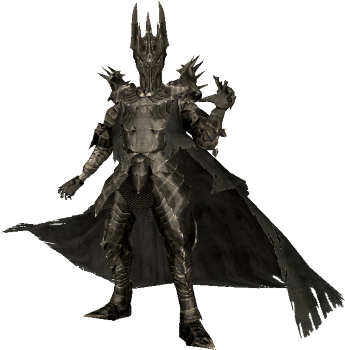
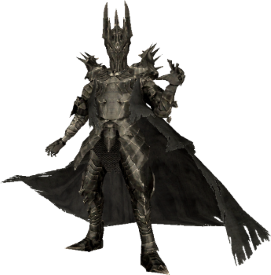
Resized the character pngs again. Background image changes when a new enemy is selected. Commented javascript.

diff --git a/assets/javascript/game.js b/assets/javascript/game.js
@@ -1,11 +1,13 @@
+// Each of the following objects represents a character that the player can 
+// play as or fight against.
 var frodo = {
     name: "Frodo Baggins",
     id: "frodobaggins",
     image: "assets/images/frodobaggins.png",
-    health: 100,
-    currentPower: 5,
-    attackPower: 5,
-    counterPower: 5
+    health: 120,
+    currentPower: 6,
+    attackPower: 6,
+    counterPower: 8
 };
 
 var gandalf = {
@@ -13,8 +15,8 @@ var gandalf = {
     id: "gandalf",
     image: "assets/images/gandalf.png",
     health: 180,
-    currentPower: 8,
-    attackPower: 8,
+    currentPower: 7,
+    attackPower: 7,
     counterPower: 25
 }
 
@@ -23,8 +25,8 @@ var aragorn = {
     id: "aragorn",
     image: "assets/images/aragorn.png",
     health: 150,
-    currentPower: 6,
-    attackPower: 6,
+    currentPower: 7,
+    attackPower: 7,
     counterPower: 20
 }
 
@@ -32,10 +34,10 @@ var nazgul = {
     name: "Witch-king of Angmar",
     id: "nazgul",
     image: "assets/images/nazgul.png",
-    health: 100,
-    currentPower: 5,
-    attackPower: 5,
-    counterPower: 5
+    health: 120,
+    currentPower: 6,
+    attackPower: 6,
+    counterPower: 8
 }
 
 var saruman = {
@@ -43,8 +45,8 @@ var saruman = {
     id: "saruman",
     image: "assets/images/saruman.png",
     health: 150,
-    currentPower: 6,
-    attackPower: 6,
+    currentPower: 7,
+    attackPower: 7,
     counterPower: 20
 }
 
@@ -53,17 +55,21 @@ var sauron = {
     id: "sauron",
     image: "assets/images/sauron.png",
     health: 180,
-    currentPower: 8,
-    attackPower: 8,
+    currentPower: 7,
+    attackPower: 7,
     counterPower: 25
 }
 
-// var heroes = ["frodobaggins", "samwisegamgee", "gandalf", "aragorn", "legolas"];
+// The two groupings of playable characters are heroes and villains.
 var heroes = [frodo, aragorn, gandalf];
-// var villains = ["nazgul", "saruman", "sauron", "gollum", "shelob"];
 var villains = [nazgul, saruman, sauron];
-var playerTeam = "";
 
+// Store the backgrounds in an array so we can randomly pick one with each 
+// new enemy fight.
+var backgrounds = ["hobbiton.jpeg", "minesofmoria.jpg", "ministirith.jpg", "mistymountains.jpg", "mordor.jpg", "rohan.jpg", "theblackgate.jpg", "theshire.jpg"];
+
+// Initialize other useful global variables.
+var playerTeam = "";
 var wins = 0;
 var losses = 0;
 var enemyChosen = false;
@@ -85,6 +91,7 @@ var friendsHolder = $("#friends");
 var enemiesHolder = $("#enemies");
 var messageLog = $("<div>");
 var attackButton = $("<button>");
+var bodyHolder = $("body");
 
 // At the start of the game, players can pick either the heroes or the villains.
 // When they make a choice, the next screen displays their playable characters.
@@ -106,7 +113,6 @@ $(".start-button").on("click", function () {
 // After the player makes a choice about which side they are on, their playable
 // characters are displayed.
 function showPlayableCharacters() {
-
     for (var i = 0; i < friendlyCharacters.length; i++) {
         var image = $("<img>");
         image.attr("src", friendlyCharacters[i].image);
@@ -120,7 +126,6 @@ function showPlayableCharacters() {
 // Once a player has chosen a character by clicking on the image, append the image
 // to the game board and display their enemies.
 function chooseCharacter(theCharacter) {
-
     // Grab the chosen character and set it to playerCharacter variable.
     for (var i = 0; i < friendlyCharacters.length; i++) {
         if (theCharacter === friendlyCharacters[i].id) {
@@ -140,7 +145,6 @@ function chooseCharacter(theCharacter) {
 
 // Display the enemies that the player has to choose from.
 function displayEnemies() {
-
     enemiesHolder.empty();
 
     for (var i = 0; i < enemyCharacters.length; i++) {
@@ -171,11 +175,16 @@ function chooseEnemy(theEnemy) {
             }
         }
 
+        // Select a new background image.
+        var newBackground = backgrounds[Math.floor(Math.random() * backgrounds.length)]
+        $("body").css({"background": "url('assets/images/" + newBackground + "') no-repeat center center fixed", "background-size": "cover"});
+ 
         displayEnemies();
         headerHolder.html("<h1>You are fighting " + currentEnemy.name + "!</h1>");
     }
 }
 
+// Display the Attack button, Message Log box, and reset button.
 function displayOptions() {
     attackButton.attr("id", "#attack");
     attackButton.attr("value", "attack");
@@ -185,7 +194,7 @@ function displayOptions() {
     playerOptionsHolder.append(attackButton);
 
     messageLog.attr("id", "#message-log");
-    messageLog.attr("style", "background-color: wheat; width: 20em; height: 15em; margin: 1em 0; overflow: auto; text-align: center");
+    messageLog.attr("style", "background-color: wheat; width: 20em; height: 8em; margin: 1em 0; overflow: auto; text-align: center");
     playerOptionsHolder.append(messageLog);
 
     var resetButton = $("<button>");
@@ -198,31 +207,41 @@ function displayOptions() {
     playerOptionsHolder.append(resetButton);
 }
 
+// When the attack button is clicked, attack the enemy.
 function attackEnemy() {
+    // First check that an enemy is actually selected.
     if (!enemyChosen) {
         messageLog.prepend("<p>There is no enemy to attack yet.</p>");
     } else {
-        currentEnemy.health -= playerCharacter.currentPower;
-        if (currentEnemy.health <= 0) {
+        currentEnemy.health -= playerCharacter.currentPower; // Reduce the enemy health.
+        if (currentEnemy.health <= 0) { // If the enemy has died...
+            // Remove the enemy from the enemyCharacters array.
             enemyCharacters.splice(enemyCharacters.indexOf(currentEnemy), 1);
             enemyChosen = false;
-            enemyCharacterHolder.empty();
             headerHolder.html("<h1>You killed " + currentEnemy.name + "!</h1>");
             displayEnemies();
-        } else {
-            playerCharacter.health -= currentEnemy.counterPower;
-            if (playerCharacter.health <= 0) {
+            
+            // If there are no more enemies to fight...
+            if (enemyCharacters === undefined || enemyCharacters.length <= 0) {
+                headerHolder.html("<h1>You won the game! Click Reset Game to play again.</h1>");
+                attackButton.attr("disabled", true);
+                attackButton.attr("style", "background-color: grey; margin: 0;");
+            }
+        } else { // If the enemy has not died yet...
+            playerCharacter.health -= currentEnemy.counterPower; // Reduce the player health.
+            if (playerCharacter.health <= 0) { // If the player has died...
                 headerHolder.html("<h1>You lost the game! Click Reset Game to try again.</h1>");
                 playerCharacterHolder.empty();
                 attackButton.attr("disabled", true);
                 attackButton.attr("style", "background-color: grey; margin: 0;");
             }
         }
+        // Add details to the message log.
         messageLog.prepend("<p>You attacked " + currentEnemy.name + " for " + playerCharacter.currentPower + " damage!</p>" +
         "<p>" + currentEnemy.name + " attacked you for " + currentEnemy.counterPower + " damage!</p>" +
         "<p>" + currentEnemy.name + "'s health is at " + currentEnemy.health + ".</p>" +
         "<p>Your health is at " + playerCharacter.health + ".</p><br>");
         
-        playerCharacter.currentPower += playerCharacter.attackPower;
+        playerCharacter.currentPower += playerCharacter.attackPower; // Add to the player's attack power.
     }
 }

diff --git a/assets/css/style.css b/assets/css/style.css
@@ -31,15 +31,11 @@ h1 {
     text-align: center;
 }
 
-/* #game-board {
-    text-align: center;
-    margin: 0 auto;
-} */
-
 #game-board {
     display: flex;
     flex-direction: row;
     justify-content: space-around;
+    margin-bottom: 2em;
 }
 
 #player-character {
@@ -55,6 +51,11 @@ h1 {
 #enemy-character {
     display: flex;
     flex-direction: column;
+}
+
+#friends {
+    text-align: center;
+    margin: 0 auto;
 }
 
 #enemies {
